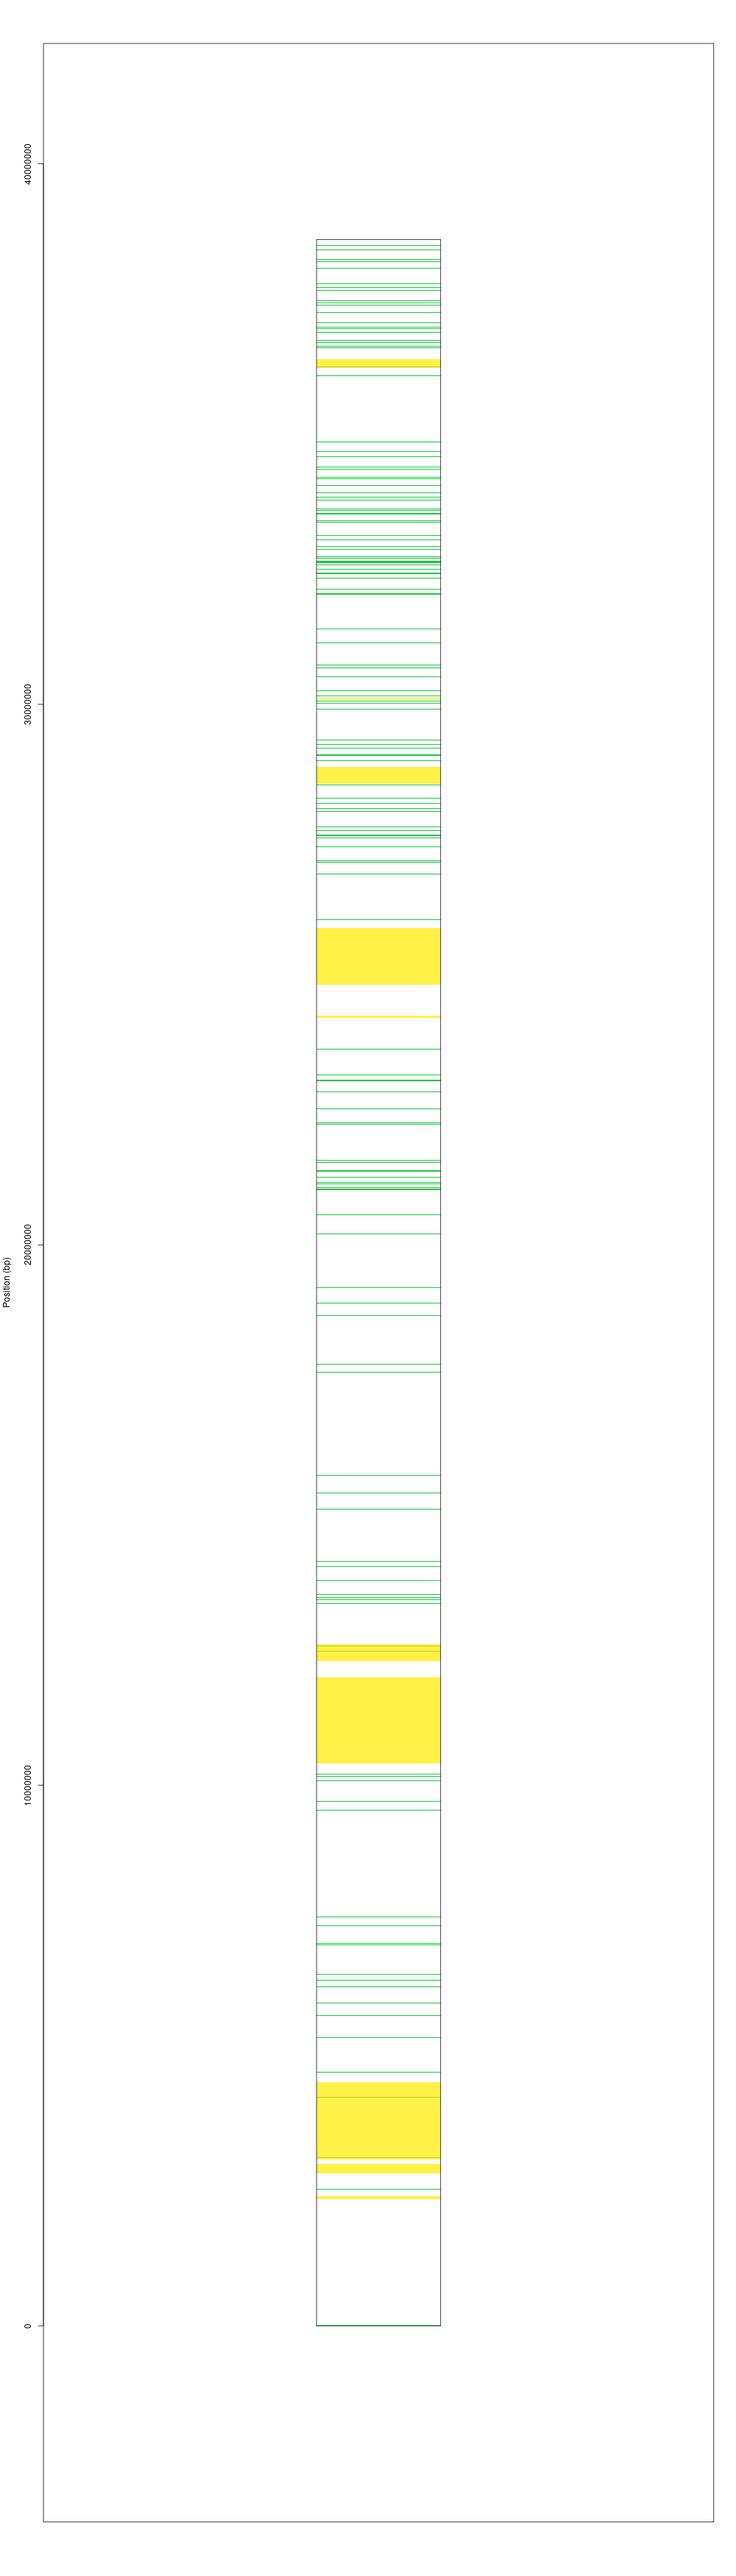
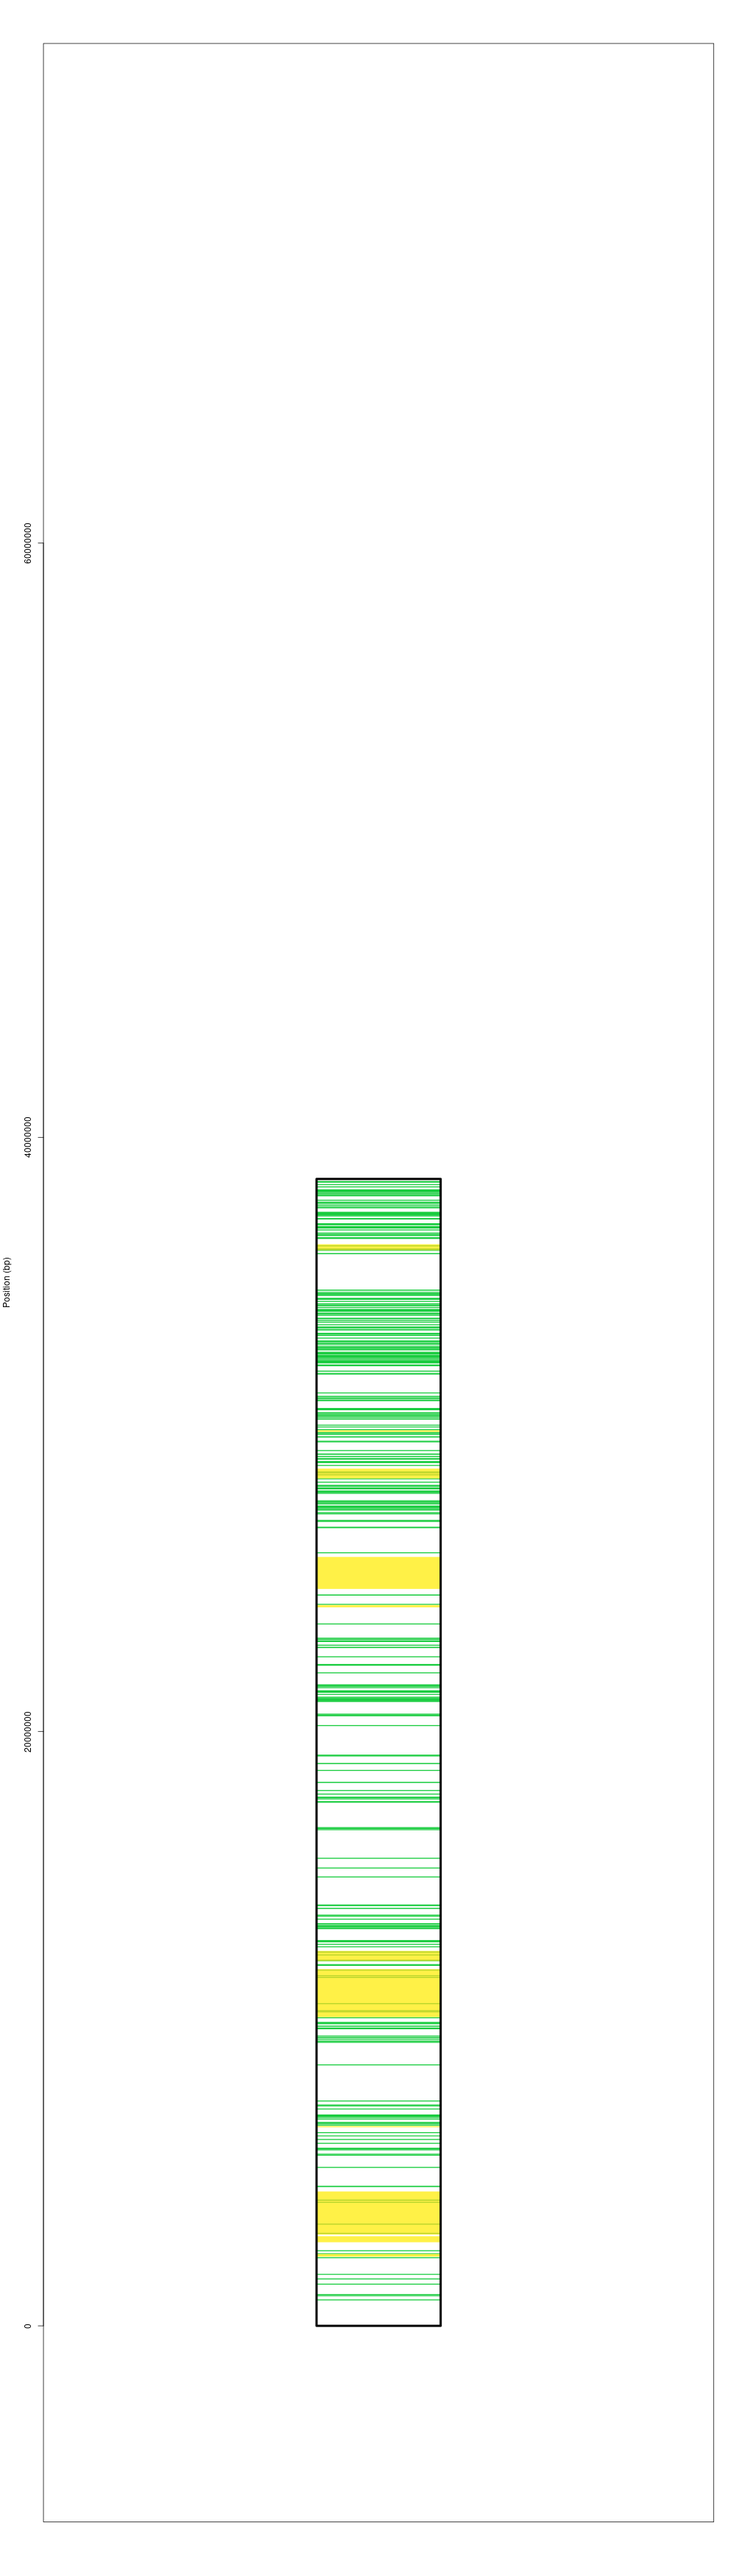
replotted with thicker lai bars

diff --git a/05.analyses/genome_scan/chr_plots/README.md b/05.analyses/genome_scan/chr_plots/README.md
@@ -130,7 +130,6 @@ fst_sel_purecord_filename <- "/blue/soltis/kasey.pham/euc_hyb_reseq/analyses/gen
 fst_sel_purecord_bed <- read.table(fst_sel_purecord_filename, header = TRUE, sep = "\t")
 
 min_snps <- 15 # set minimum SNP number to consider a window
-# Set population pair to to correct populations
 
 # define filters
 # snp number filter
@@ -154,13 +153,13 @@ MRcord_fst_sel_avg <- mean(MRcord_fst_sel_tab$avg_wc_fst) # 0.3658838
 purecord_fst_sel_avg <- mean(purecord_fst_sel_tab$avg_wc_fst) # 0.3471521
 ```
 
-| Category                          | bp covered      | fraction of genome | expected bp covered |
-| --------------------------------- | --------------- | ------------------ | ------------------- |
-| species differences               | 5958976         | 0.009877278        | NA                  |
-| balancing selection               | 2501955         | 0.004147106        | NA                  |
-| directional selection             | 3042942         | 0.005043817        | NA                  |
-| spp diffs & balancing selection   | 14997           | 0.00002485822      | 24712.5             |
-| spp diffs & directional selection | 197973          | 0.0003281494       | 30055.98            |
+| Category                          | bp covered      | fraction of genome | expected bp covered | difference (bp)|
+| --------------------------------- | --------------- | ------------------ | ------------------- | -------------- |
+| species differences               | 5958976         | 0.009877278        | NA                  | NA             |
+| balancing selection               | 2501955         | 0.004147106        | NA                  | NA             |
+| directional selection             | 3042942         | 0.005043817        | NA                  | NA             |
+| spp diffs & balancing selection   | 14997           | 0.00002485822      | 24712.5             | -9715.5        |
+| spp diffs & directional selection | 197973          | 0.0003281494       | 30055.98            | 167917.02      |
 
 The amount of balancing selection windows overlapping with species difference windows is about what you'd expect from random chance. However, the amount of directional selection windows overlapping with species difference windows is much higher, by a factor of ~6. This indicates that divergent selection on _E. globulus_ may be acting against any introgression from _E. cordata_.
 
@@ -173,11 +172,11 @@ As for average FST of selection windows...
 Average FST in both types of selection windows combined is also quite a bit higher than genome-wide FST, filtering for a minimum number of 15 SNPs per window (which of course biases the numbers towards regions of the genome with more coverage).
 
 ### Error Estimation
-Bootstrapped selection windows to get errors on point estimates of species difference/selection window overlap and average FST in selection windows. Started by generating the bootstraps in `R`.
+Bootstrapped selection windows to get errors on point estimates of species difference/selection window overlap and average FST in selection windows. 
 
+#### Window Overlap
+Started by generating the bootstraps in `R`.
 ```R
-## Compare overlap between species difference and selection windows ##
-#  ----------------------------------------------------------------- #
 # Import BED files as data frames
 balsel_filename <- "/blue/soltis/kasey.pham/euc_hyb_reseq/analyses/genome_scan/chr_plots/sel_files/balancing/Eglob_all_balance_sel.bed"
 dirsel_filename <- "/blue/soltis/kasey.pham/euc_hyb_reseq/analyses/genome_scan/chr_plots/sel_files/directional/Eglob_all_direction_sel.bed"
@@ -185,12 +184,258 @@ dirsel_filename <- "/blue/soltis/kasey.pham/euc_hyb_reseq/analyses/genome_scan/c
 balsel_file <- read.table(balsel_filename, header = TRUE, sep = "\t")
 dirsel_file <- read.table(dirsel_filename, header = TRUE, sep = "\t")
 
-# Resample selection windows (100x)
-balsel_boots <- list()
-dirsel_boots <- list()
+# Resample selection windows (100x) and write resampled BED files to directories
+for(i in c(1:100)){
+    # generate and sort resampled indices
+    balsel_res_ind <- sort(sample(c(1:nrow(balsel_file)), nrow(balsel_file), replace = TRUE))
+    dirsel_res_ind <- sort(sample(c(1:nrow(dirsel_file)), nrow(dirsel_file), replace = TRUE))
+    # subset original files with resampled indices
+    balsel_res <- balsel_file[balsel_res_ind,] 
+    dirsel_res <- dirsel_file[dirsel_res_ind,]
+    # write resampled files
+    write.table(balsel_res, paste("boots/Eglob_all_balance_sel/boot_", i, ".bed", sep = ""), quote = FALSE, row.names = FALSE, col.names = TRUE, sep = "\t")
+    write.table(dirsel_res, paste("boots/Eglob_all_direction_sel/boot_", i, ".bed", sep = ""), quote = FALSE, row.names = FALSE, col.names = TRUE, sep = "\t")
+}
+```
+
+Got overlap of bootstrapped selection BED files with species difference windows.
+```bash
+module load bedtools/2.30.0
+FDIFFS_LOC="/blue/soltis/kasey.pham/euc_hyb_reseq/analyses/genome_scan/chr_plots/fdiff_files"
+BBOOTS_LOC="/blue/soltis/kasey.pham/euc_hyb_reseq/analyses/genome_scan/chr_plots/synthesis/boots/Eglob_all_balance_sel"
+DBOOTS_LOC="/blue/soltis/kasey.pham/euc_hyb_reseq/analyses/genome_scan/chr_plots/synthesis/boots/Eglob_all_direction_sel"
+
+for i in {1..100}
+do
+    bedtools intersect -a "$FDIFFS_LOC"/Eglob_all_fdiffs.bed -b "$BBOOTS_LOC"/boot_"$i".bed -header > boots/Eglob_all_balance_sel_overl/boot_"$i"_overl.bed
+    bedtools intersect -a "$FDIFFS_LOC"/Eglob_all_fdiffs.bed -b "$DBOOTS_LOC"/boot_"$i".bed -header > boots/Eglob_all_direction_sel_overl/boot_"$i"_overl.bed
+done
+```
+
+Calculated overlap bp for each bootstrap in `R`.
+```R
+fdiffs_filename <- "/blue/soltis/kasey.pham/euc_hyb_reseq/analyses/genome_scan/chr_plots/fdiff_files/Eglob_all_fdiffs.bed"
+balsel_boots_dir <- "/blue/soltis/kasey.pham/euc_hyb_reseq/analyses/genome_scan/chr_plots/synthesis/boots/Eglob_all_balance_sel"
+dirsel_boots_dir <- "/blue/soltis/kasey.pham/euc_hyb_reseq/analyses/genome_scan/chr_plots/synthesis/boots/Eglob_all_direction_sel"
+balsel_boots_overl_dir <- "/blue/soltis/kasey.pham/euc_hyb_reseq/analyses/genome_scan/chr_plots/synthesis/boots/Eglob_all_balance_sel_overl"
+dirsel_boots_overl_dir <- "/blue/soltis/kasey.pham/euc_hyb_reseq/analyses/genome_scan/chr_plots/synthesis/boots/Eglob_all_direction_sel_overl"
+
+fdiffs_file <- read.table(fdiffs_filename, header = TRUE, sep = "\t")
+fdiffs_bp <- sum(unlist(apply(fdiffs_file, 1, function(row) as.numeric(row["end"]) - as.numeric(row["start"]))))
+genome_size <- 603301446
+
+# Calculate bootstrap estimates for overlaps
+balsel_overl_vec <- c()
+dirsel_overl_vec <- c()
+balsel_overl_expected_vec <- c()
+dirsel_overl_expected_vec <- c()
 
 for(i in c(1:100)){
-    balsel_boots[[i]] <- sample(c(1:nrow(balsel_file)), 100, replace=TRUE)
-    dirsel_boots[[i]] <- sample(c(1:nrow(dirsel_file)), 100, replace = TRUE)
+    # import boostrap files
+    balsel_file <- read.table(paste(balsel_boots_dir, "/boot_", i, ".bed", sep = ""), header = TRUE, sep = "\t")
+    dirsel_file <- read.table(paste(dirsel_boots_dir, "/boot_", i, ".bed", sep = ""), header = TRUE, sep = "\t")
+    balsel_overl_file <- read.table(paste(balsel_boots_overl_dir, "/boot_", i, "_overl.bed", sep = ""), header = TRUE, sep = "\t")
+    dirsel_overl_file <- read.table(paste(dirsel_boots_overl_dir, "/boot_", i, "_overl.bed", sep = ""), header = TRUE, sep = "\t")
+    # Get total base pairs encompassed over the genome for bootstraps
+    balsel_bp <- sum(unlist(apply(balsel_file, 1, function(row) as.numeric(row["end"]) - as.numeric(row["start"]))))
+    dirsel_bp <- sum(unlist(apply(dirsel_file, 1, function(row) as.numeric(row["end"]) - as.numeric(row["start"]))))
+    balsel_overl_bp <- sum(unlist(apply(balsel_overl_file, 1, function(row) as.numeric(row["end"]) - as.numeric(row["start"]))))
+    dirsel_overl_bp <- sum(unlist(apply(dirsel_overl_file, 1, function(row) as.numeric(row["end"]) - as.numeric(row["start"]))))
+
+    # Get fraction of whole genome for each category
+    fdiffs_frac <- fdiffs_bp/genome_size
+    balsel_frac <- balsel_bp/genome_size
+    dirsel_frac <- dirsel_bp/genome_size
+    balsel_overl_frac <- balsel_overl_bp/genome_size
+    dirsel_overl_frac <- dirsel_overl_bp/genome_size
+
+    # add to storage vector
+    balsel_overl_vec <- c(balsel_overl_vec, balsel_overl_bp)
+    dirsel_overl_vec <- c(dirsel_overl_vec, dirsel_overl_bp)
+
+    # Get expected balancing selection overlap and directional selection overlap expected values
+    balsel_overl_expected <- fdiffs_frac * balsel_frac * genome_size
+    dirsel_overl_expected <- fdiffs_frac * dirsel_frac * genome_size
+
+    # add to storage vector
+    balsel_overl_expected_vec <- c(balsel_overl_expected_vec, balsel_overl_expected)
+    dirsel_overl_expected_vec <- c(dirsel_overl_expected_vec, dirsel_overl_expected)
 }
+
+# get difference between observed and expected overlap and the 95% confidence interval
+balsel_diff_vec <- balsel_overl_vec - balsel_overl_expected_vec
+dirsel_diff_vec <- dirsel_overl_vec - dirsel_overl_expected_vec
+
+balsel_95conf_int <- sort(balsel_diff_vec)[c(3, 98)]
+dirsel_95conf_int <- sort(dirsel_diff_vec)[c(3,98)]
+
+# write results to disk
+write.table(balsel_overl_vec, "boots/Eglob_all_balance_sel/Eglob_all_balance_sel_boots_bp.txt", row.names = FALSE, col.names = FALSE, quote = FALSE)
+write.table(dirsel_overl_vec, "boots/Eglob_all_direction_sel/Eglob_all_direction_sel_boots_bp.txt", row.names = FALSE, col.names = FALSE, quote = FALSE)
+write.table(balsel_overl_expected_vec, "boots/Eglob_all_balance_sel/Eglob_all_balance_sel_boots_expected_bp.txt", row.names = FALSE, col.names = FALSE, quote = FALSE)
+write.table(dirsel_overl_expected_vec, "boots/Eglob_all_direction_sel/Eglob_all_direction_sel_boots_expected_bp.txt", row.names = FALSE, col.names = FALSE, quote = FALSE)
+write.table(balsel_diff_vec, "Eglob_all_balance_boots_diff_bp.txt", row.names = FALSE, col.names = FALSE, quote = FALSE)
+write.table(dirsel_diff_vec, "Eglob_all_direction_boots_diff_bp.txt", row.names = FALSE, col.names = FALSE, quote = FALSE)
+```
+
+95% of bootstrapped differences between observed and expected genome coverage fell within the following:
+
+| Category           | boots diff lower bound (bp) | point estimate (bp) | boots diff upper bound (bp) |
+| ------------------ | --------------------------- | ------------------- | --------------------------- |
+| Balancing Sel      | -21333.378                  | -9715.5             | 7533.525                    |
+| Directional Sel    | 106388.2                    | 167917.02           | 256741.5                    |
+
+Which confirms that the balancing selection windows do not overlap more with species differences windows than would be expected by chance, while the directional selection windows do, by somewhere between ~100,000 and ~250,000 bp.
+
+Plotted results in `R`.
+
+```R
+overlap_table <- data.frame(category = c("balancing", "directional"), 
+                            lower_boot = c(-21333.378, 106388.2), 
+                            point_est = c(-9715.5, 167917.02), 
+                            upper_boot = c(7533.525, 256741.5))
+# add margin space
+par(mar = c(5, 4, 4, 8) + 0.1)
+# plot point ests
+overl_bar <- barplot(overlap_table$point_est, 
+                     ylim = c(-50000, 300000),
+                     col = c("#1ddda3", "#008a60"), 
+                     main = "Overlap in selection and spp difference windows", 
+                     ylab = "Overlap (bp)", 
+                     cex.names = 1.2, 
+                     legend.text = c("Balancing", "Directional", "95% bootstrap"),
+                     args.legend = list(x = "topright", cex = 1.1, inset=c(-0.2, 0), 
+                                        fill = c("#1ddda3", "#008a60", NA), 
+                                        title = "Selection Type"))
+# error bars
+arrows(x0 = overl_bar, 
+       y0 = overlap_table$upper_boot, 
+       y1 = overlap_table$lower_boot, 
+       angle = 90,
+       code = 3,
+       lwd = 2.5,
+       length = 0.1)
+# draw x axis line
+abline(h = 0)
+```
+
+#### Average FST in selection windows
+Bootstrapped combined selection window BED file in `R`.
+
+```R
+# import original BED files
+fst_sel_MRcord_filename <- "/blue/soltis/kasey.pham/euc_hyb_reseq/analyses/genome_scan/chr_plots/synthesis/globMR_cordMR_fst_sel.bed"
+fst_sel_purecord_filename <- "/blue/soltis/kasey.pham/euc_hyb_reseq/analyses/genome_scan/chr_plots/synthesis/globpure_cordMR_fst_sel.bed"
+
+fst_sel_MRcord_bed <- read.table(fst_sel_MRcord_filename, header = TRUE, sep = "\t")
+fst_sel_purecord_bed <- read.table(fst_sel_purecord_filename, header = TRUE, sep = "\t")
+
+# generate bootstrapped BED files
+MRcord_boots_list <- list()
+purecord_boots_list <- list()
+
+for(i in c(1:100)){
+    # generate and sort resampled indices
+    fst_sel_MRcord_res_ind <- sort(sample(c(1:nrow(fst_sel_MRcord_bed)), nrow(fst_sel_MRcord_bed), replace = TRUE))
+    fst_sel_purecord_res_ind <- sort(sample(c(1:nrow(fst_sel_purecord_bed)), nrow(fst_sel_purecord_bed), replace = TRUE))
+    # subset original files with resampled indices
+    fst_sel_MRcord_res <- fst_sel_MRcord_bed[fst_sel_MRcord_res_ind,] 
+    fst_sel_purecord_res <- fst_sel_purecord_bed[fst_sel_purecord_res_ind,]
+    # record to list
+    MRcord_boots_list[[i]] <- fst_sel_MRcord_res
+    purecord_boots_list[[i]] <- fst_sel_purecord_res
+    # write resampled files
+    write.table(fst_sel_MRcord_res, paste("boots/globMR_cordMR_fst_sel/boot_", i, ".bed", sep = ""), quote = FALSE, row.names = FALSE, col.names = TRUE, sep = "\t")
+    write.table(fst_sel_purecord_res, paste("boots/globpure_cordMR_fst_sel/boot_", i, ".bed", sep = ""), quote = FALSE, row.names = FALSE, col.names = TRUE, sep = "\t")
+}
+
+# Calculate average FST in bootstrapped BED files
+# import FST table
+fst_filename <- "/blue/soltis/kasey.pham/euc_hyb_reseq/analyses/genome_scan/pixy/all_fst.txt"
+fst_file <- read.table(fst_filename, header = TRUE, sep = "\t")
+
+min_snps <- 15 # set minimum SNP number to consider a window
+
+# define filters
+# snp number filter
+snp_fil <- which(fst_file$no_snps > min_snps)
+# filter for correct population pairs
+fst_MRcord_popfil <- which(fst_file$pop1 == "glob_MR" & fst_file$pop2 == "cord_MR")
+fst_purecord_popfil <- which(fst_file$pop1 == "glob_pure" & fst_file$pop2 == "cord_MR")
+
+# Loop through bootstraps, filtering FST file and calculating average FST for each
+MRcord_fst_sel_avg_vec <- c()
+purecord_fst_sel_avg_vec <- c()
+for(i in c(1:100)){
+    # get rows that are also overlapping with selection windows, as defined in imported BED file
+    sel_MRcord_winfil <- unlist(apply(MRcord_boots_list[[i]], 1, function(row) which(fst_file$chromosome == row["chrom"] & fst_file$window_pos_1 == as.integer(row["start"]) & fst_file$window_pos_2 == as.integer(row["end"]))))
+    sel_purecord_winfil <- unlist(apply(purecord_boots_list[[i]], 1, function(row) which(fst_file$chromosome == row["chrom"] & fst_file$window_pos_1 == as.integer(row["start"]) & fst_file$window_pos_2 == as.integer(row["end"]))))
+    # final filters
+    MRcord_final_fil <- intersect(snp_fil, intersect(fst_MRcord_popfil, sel_MRcord_winfil))
+    purecord_final_fil <- intersect(snp_fil, intersect(fst_purecord_popfil, sel_purecord_winfil))
+
+    # get final filtered tables for each population pair
+    MRcord_fst_sel_tab <- fst_file[MRcord_final_fil,]
+    purecord_fst_sel_tab <- fst_file[purecord_final_fil,]
+
+    # store average FST
+    MRcord_fst_sel_avg_vec <- c(MRcord_fst_sel_avg_vec, mean(MRcord_fst_sel_tab$avg_wc_fst))
+    purecord_fst_sel_avg_vec <- c(purecord_fst_sel_avg_vec, mean(purecord_fst_sel_tab$avg_wc_fst))
+}
+
+# get final confidence intervals
+MRcord_fst_sel_95conf_int <- sort(MRcord_fst_sel_avg_vec)[c(3,98)]
+purecord_fst_sel_95conf_int <- sort(purecord_fst_sel_avg_vec)[c(3,98)]
+
+# write bootstrapped averages to disk
+write.table(MRcord_fst_sel_avg_vec, "MRcord_ft_sel_avg_boots.txt", quote = FALSE, row.names = FALSE, col.names = FALSE)
+write.table(purecord_fst_sel_avg_vec, "purecord_ft_sel_avg_boots.txt", quote = FALSE, row.names = FALSE, col.names = FALSE)
+```
+
+Average FST values of bootstraps:
+| Category            | boot lower bound | point estimate FST | boot upper bound | Genome-wide FST |
+| ------------------- | ---------------- | ------------------ | ---------------- | --------------- |
+| glob_MR & cord_MR   | 0.3504071        | 0.3658838          | 0.3805583        | 0.281874        |
+| glob_pure & cord_MR | 0.3294071        | 0.3471521          | 0.3644682        | 0.2748824       |
+
+95% of bootstrap average FSTs still fall well above the genome-wide FST value for both Meehan Range _E. globulus_ vs. _E. cordata_ and "pure" _E. globulus_ vs. _E. cordata_.
+
+Plotted barplot of results in `R`.
+```R
+# make data frame of data
+fst_table <- data.frame(category = c("globMR_cordMR", "globpure_cordMR"), 
+                        lower_boot = c(0.3504071, 0.3294071), 
+                        point_est = c(0.3658838, 0.3471521), 
+                        upper_boot = c(0.3805583, 0.3644682), 
+                        genome_wide = c(0.281874, 0.2748824))
+# expand margins
+par(mar = c(10, 4, 4, 2) + 0.1)
+# plot barplot of point estimates
+fst_bar <- barplot(fst_table$point_est, 
+                   ylim = c(0, 0.5),
+                   col = c("#7d7d7d", "#0087a8"), 
+                   main = "Average FST in selection windows\n(balancing and directional combined)", 
+                   ylab = "Average FST", 
+                   cex.names = 1.2, 
+                   legend.text = c("MR E. globulus - E. cordata", "pure E. globulus - E. cordata", "95% bootstrap", "Genome-wide Average"),
+                   args.legend = list(x = "bottom", inset = c(0 , -0.325), 
+                                      fill = c("#7d7d7d", "#0087a8", "NA", "NA"), 
+                                      title = "Population Pair"))
+# error bars
+arrows(x0 = overl_bar, 
+       y0 = fst_table$upper_boot, 
+       y1 = fst_table$lower_boot, 
+       angle = 90,
+       code = 3,
+       lwd = 2.5,
+       length = 0.1)
+# draw dashed lines for genome-wide averages
+lines(x = c((fst_bar[1,1] - 0.5), (fst_bar[1,1] + 0.5)), 
+      y = c(fst_table[1, "genome_wide"], fst_table[1, "genome_wide"]), 
+      lty = 2, lwd = 2)
+lines(x = c((fst_bar[2,1] - 0.5), (fst_bar[2,1] + 0.5)), 
+      y = c(fst_table[2, "genome_wide"], fst_table[2, "genome_wide"]), 
+      lty = 2, lwd = 2)
+# draw line for x-axis
+abline(h = 0)
 ```
